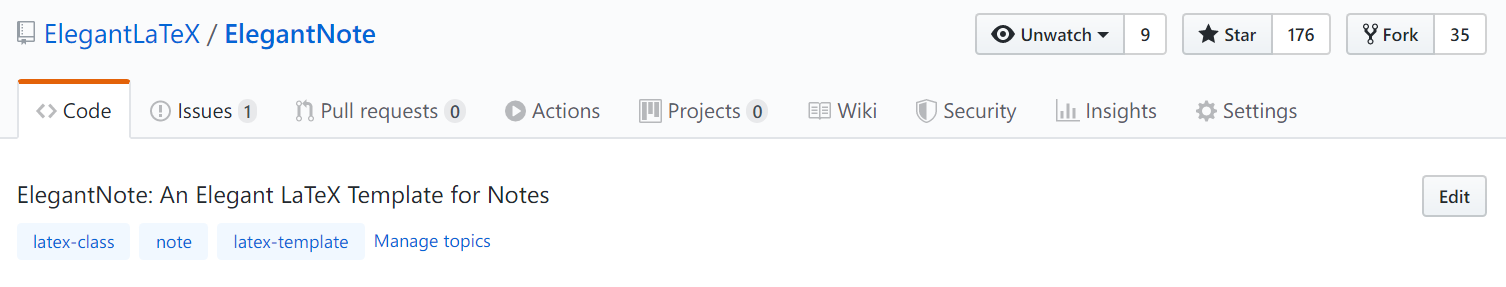
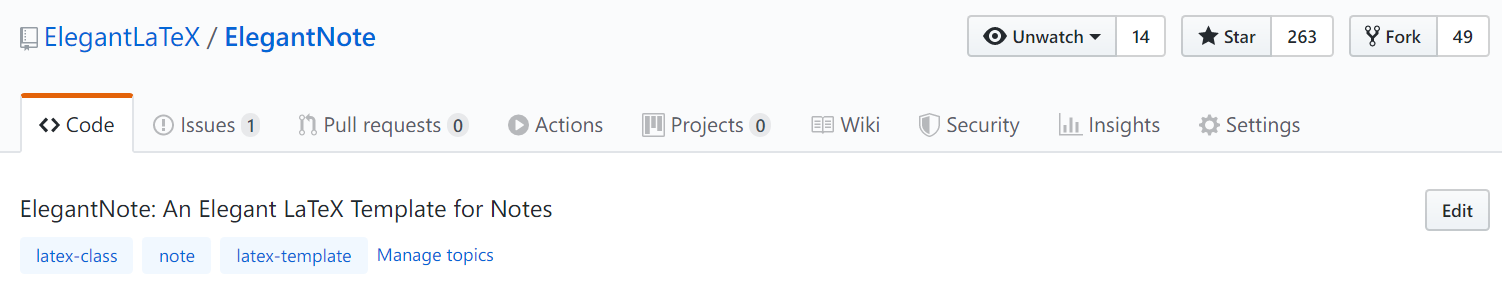
2.30 version

diff --git a/elegantnote-cn.tex b/elegantnote-cn.tex
@@ -1,11 +1,11 @@
 %!TEX program = xelatex
-\documentclass[cn,hazy,blue,14pt,screen,founder]{elegantnote}
+\documentclass[cn,hazy,blue,14pt,screen]{elegantnote}
 \title{ElegantNote：一个优美的 \LaTeX{} 笔记模板}
 
 \author{邓东升}
 \institute{Elegant\LaTeX{} Program}
 
-\version{2.20}
+\version{2.30}
 \date{\zhtoday}
 
 \usepackage{array}
@@ -21,19 +21,25 @@
 
 \section{ElegantNote 使用说明}
 
-新版 ElegantNote 是基于标准的 \LaTeX{} 文类 article 重新设计的，格式更加简化的笔记模板！本模板支持两种编译方式，\hologo{pdfLaTeX} 和 \hologo{XeLaTeX}\footnote{模板测试环境为 Win10 + \TeX{} Live 2019。}，英文模式下请使用 \hologo{pdfLaTeX} 进行编译，中文模式下推荐使用 \hologo{XeLaTeX}。
+新版 ElegantNote 是基于标准的 \LaTeX{} 文类 article 重新设计的，格式更加简化的笔记模板！本模板支持两种编译方式，\hologo{pdfLaTeX} 和 \hologo{XeLaTeX}，英文模式下请使用 \hologo{pdfLaTeX} 进行编译，中文模式下推荐使用 \hologo{XeLaTeX}。
 
 新模板有下面几个特性：
+
 \begin{itemize}
   \item 纸张模式：护眼模式（geye）和朦胧模式（hazy）；
-  \item 适配不同设备，包括 Pad（默认），Screen\footnote{\textcolor{red}{本次更新新增内容。}}（幻灯片），Kindle，PC（双页），通用（A4 纸张）；
+  \item 适配不同设备，包括 Pad（默认），Screen（幻灯片），Kindle，PC（双页），通用（A4 纸张）；
   \item 5 套颜色主题，分别是：\textcolor{eblue}{blue}（默认）、\textcolor{egreen}{green}、\textcolor{ecyan}{cyan}、 \textcolor{sakura}{sakura} 和 \textcolor{black}{black}；
   \item 语言支持：中文（默认），英文；
   \item 支持 \hologo{pdfLaTeX} 和 \hologo{XeLaTeX} 编译；
   \item 更加美观的图表标题格式，列表环境，数学字体等；
-  \item 全局字体大小支持：8pt, 9pt, 10pt, 11pt, 12pt, 14pt, 17pt, 和 20pt。
+  \item 全局字体大小支持：8pt, 9pt, 10pt, 11pt, 12pt, 14pt, 17pt, 和 20pt；
+  \item 支持 \lstinline{newtx} 以及 \lstinline{mtpro2} 数学字体设置； 
+  \item 中文字体支持方正字体或者自定义字体；
+  \item 英文模式通过 \lstinline{bibstyle} 选项（默认为 \lstinline{apalike}）支持参考文献格式修改；
+  \item 支持参考格式显示格式修改 \lstinline{cite} 可选为 \lstinline{authoryear}、\lstinline{numbers} （默认）和 \lstinline{super}。
 \end{itemize}
 
+本次更新：修复 \TeX{} Live 2020 更新之后因 \lstinline{gbt7714} 宏包更新用法导致模板出错的问题。
 
 \subsection{模板模式}
 
@@ -82,6 +88,51 @@
 \begin{note}
   如果想要正常的 A4 大小的 PDF，需要选择 \lstinline{device=normal}。
 \end{note}
+
+
+\subsection{数学字体选项}
+
+本模板定义了一个数学字体选项（\lstinline{math}），可选项有三个：
+\begin{enumerate}
+  \item \lstinline{math=cm}（默认），使用 \LaTeX{} 默认数学字体（推荐，无需声明）；
+  \item \lstinline{math=newtx}，使用 \lstinline{newtxmath} 设置数学字体（潜在问题比较多）。
+  \item \lstinline{math=mtpro2}，使用 \lstinline{mtpro2} 宏包设置数学字体，要求用户已经成功安装此宏包。
+\end{enumerate}
+
+
+\subsection{中文字体选项}
+模板提供中文字体选项 \lstinline{chinesefont}，可选项有
+\begin{enumerate}
+\item \lstinline{ctexfont}：默认选项，使用 \lstinline{ctex} 宏包根据系统自行选择字体，可能存在字体缺失的问题，更多内容参考 \lstinline{ctex} 宏包\href{https://ctan.org/pkg/ctex}{官方文档}\footnote{可以使用命令提示符，输入 \lstinline{texdoc ctex} 调出本地 \lstinline{ctex} 宏包文档}。
+\item \lstinline{founder}：方正字体选项，调用 \lstinline{ctex} 宏包并且使用 \lstinline{fontset=none} 选项，然后设置字体为方正四款免费字体，方正字体下载注意事项见后文。
+\item \lstinline{nofont}：调用 \lstinline{ctex} 宏包并且使用 \lstinline{fontset=none} 选项，不设定中文字体，用户可以自行设置中文字体，具体见后文。
+\end{enumerate}
+
+\noindent \textbf{注意：} 使用 \lstinline{founder} 选项或者 \lstinline{nofont} 时，必须使用 \hologo{XeLaTeX} 进行编译。
+
+\subsubsection{方正字体选项}
+由于使用 \lstinline{ctex} 宏包默认调用系统已有的字体，部分系统字体缺失严重，因此，用户希望能够使用其它字体，我们推荐使用方正字体。方正的{\songti 方正书宋}、{\heiti 方正黑体}、{\kaishu 方正楷体}、{\fangsong 方正仿宋}四款字体均可免费试用，且可用于商业用途。用户可以自行从\href{http://www.foundertype.com/}{方正字体官网}下载此四款字体，在下载的时候请\textbf{务必}注意选择 GBK 字符集，也可以使用 \href{https://www.latexstudio.net/}{\LaTeX{} 工作室}提供的\href{https://pan.baidu.com/s/1BgbQM7LoinY7m8yeP25Y7Q}{方正字体，提取码为：njy9} 进行安装。安装时，{\kaishu Win 10 用户请右键选择为全部用户安装，否则会找不到字体。}
+
+\begin{figure}[!htb]
+\centering
+\includegraphics[width=0.9\textwidth]{founder.png}
+\end{figure}
+
+\subsubsection{其他中文字体}
+如果你想完全自定义字体\footnote{这里仍然以方正字体为例。}，你可以选择 \lstinline{chinesefont=nofont}，然后在导言区设置
+\begin{lstlisting}
+\setCJKmainfont[BoldFont={FZHei-B01},ItalicFont={FZKai-Z03}]{FZShuSong-Z01}
+\setCJKsansfont[BoldFont={FZHei-B01},ItalicFont={FZHei-B01}]{FZHei-B01}
+\setCJKmonofont[BoldFont={FZHei-B01},ItalicFont={FZHei-B01}]{FZFangSong-Z02}
+\setCJKfamilyfont{zhsong}{FZShuSong-Z01}
+\setCJKfamilyfont{zhhei}{FZHei-B01}
+\setCJKfamilyfont{zhkai}{FZKai-Z03}
+\setCJKfamilyfont{zhfs}{FZFangSong-Z02}
+\newcommand*{\songti}{\CJKfamily{zhsong}}
+\newcommand*{\heiti}{\CJKfamily{zhhei}}
+\newcommand*{\kaishu}{\CJKfamily{zhkai}}
+\newcommand*{\fangsong}{\CJKfamily{zhfs}}
+\end{lstlisting}
 
 
 \subsection[颜色主题]{颜色主题\footnote{测试章节脚注。}}
@@ -188,7 +239,7 @@ Let $z$ be some element of $xH \cap yH$.  Then $z = xa$ for some $a \in H$, and 
 目前 ElegantLaTeX 共有 4 名协作人员，分别是
 \begin{itemize}
   \item 官方文档翻译: \href{https://github.com/peggy2006xzyz}{YPY};
-  \item Github 维基维护: \href{https://github.com/izinngo}{Ingo Zinngo}、\href{https://github.com/xiaohao890809}{追寻原风景};
+  \item GitHub 维基维护: \href{https://github.com/izinngo}{Ingo Zinngo}、\href{https://github.com/xiaohao890809}{追寻原风景};
   \item QQ 群管理员: \href{https://github.com/sikouhjw}{Sikouhjw}.
 \end{itemize}
 
@@ -197,9 +248,8 @@ Let $z$ be some element of $xH \cap yH$.  Then $z = xa$ for some $a \in H$, and 
 
 \section{致谢}
 
-截止到 2019 年 12 月 08 日，ElegantNote 2.40 版本发布，ElegantNote 模板在 Github 上的收藏数（star）达到了 176。在此特别感谢 China\TeX{} 以及 \href{http://www.latexstudio.net/}{\LaTeX{} 工作室}对于本系列模板的大力宣传与推广。
+截止到 2020 年 04 月 12 日，ElegantNote 2.30 版本发布，ElegantNote 模板在 GitHub 上的收藏数（star）达到了 263。在此特别感谢 China\TeX{} 以及 \href{http://www.latexstudio.net/}{\LaTeX{} 工作室}对于本系列模板的大力宣传与推广。如果你喜欢我们的模板，你可以在 GitHub 上收藏（Star）我们的模板。
 
-如果你喜欢我们的模板，你可以在 Github 上收藏（Star）我们的模板。
 \begin{figure}[htbp]
   \centering
   \includegraphics[width=\textwidth]{star.png}
@@ -219,25 +269,41 @@ Let $z$ be some element of $xH \cap yH$.  Then $z = xa$ for some $a \in H$, and 
 \textbf{赞赏费用的使用解释权归 Elegant\LaTeX{} 所有，并且不接受监督，请自愿理性打赏}。10 元以上的赞赏，我们将列入捐赠榜，并且发放捐赠纪念证（全部），谢谢各位金主！
 
 \begin{table}[htbp]
-  \small
+  \scriptsize
   \centering
   \caption{Elegant\LaTeX{} 系列模板捐赠榜}
     \begin{tabular}{*{8}{>{\scriptsize}c}}
     \toprule
     \textbf{捐赠者} & \textbf{金额} & \textbf{时间} & \textbf{渠道} & \textbf{捐赠者} & \textbf{金额} & \textbf{时间} & \textbf{渠道} \\
     \midrule
-    Lerh  & 10 RMB & 2019/5/15 & 微信    & 刘志阔   & 99.99 RMB & 2019/10/15 & 支付宝 \\
-    越过地平线 & 10 RMB & 2019/5/15 & 微信    & *涛    & 16 RMB & 2019/10/17 & 微信 \\
-    银桑    & 20 RMB & 2019/5/27 & 微信    & 赤霓    & 12 RMB & 2019/10/17 & 支付宝 \\
-    *空    & 10 RMB & 2019/5/30 & 微信    & 追寻原风景 & 10 RMB & 2019/10/28 & 微信 \\
-    latexstudio.net & 666 RMB & 2019/6/5 & 支付宝   & 郭德良   & 88 RMB & 2019/11/3 & 微信 \\
-    Cassis & 11 RMB & 2019/6/30 & 微信    & 自强不息  & 20 RMB & 2019/11/4 & 支付宝 \\
-    *君    & 10 RMB & 2019/7/23 & 微信    & 读书之虫  & 20 RMB & 2019/11/18 & 微信 \\
-    P*u   & 50 RMB & 2019/7/30 & 微信    & *等    & 10 RMB & 2019/11/18 & 微信 \\
-    *萌    & 19 RMB & 2019/8/28 & 微信    & *哲    & 20 RMB & 2019/11/18 & 微信 \\
-    曲豆豆   & 10 RMB & 2019/8/28 & 微信    & 佚名    & 10 RMB & 2019/11/24 & 微信 \\
-    李博    & 100 RMB & 2019/10/6 & 微信    & Jiye Qian & 66 RMB & 2019/12/4 & 微信 \\
-    Njustsll & 10 RMB & 2019/10/11 & 微信    & 阳仔    & 20 RMB & 2019/12/5 & 微信 \\
+    Lerh  & 10 RMB & 2019/05/15 & 微信    & 越过地平线 & 10 RMB & 2019/05/15 & 微信 \\
+    银桑    & 20 RMB & 2019/05/27 & 微信    & *空    & 10 RMB & 2019/05/30 & 微信 \\
+    latexstudio.net & 666 RMB & 2019/06/05 & 支付宝   & A*n   & 40 RMB & 2019/06/15 & 微信 \\
+    * 夏   & 22 RMB & 2019/06/15 & 微信    & * 倩   & 21 RMB  & 2019/06/15 & 微信 \\
+    Cassis & 11 RMB & 2019/06/30 & 微信    & *君    & 10 RMB & 2019/07/23 & 微信 \\
+    P*u   & 50 RMB & 2019/07/30 & 微信    & *萌    & 19 RMB & 2019/08/28 & 微信 \\
+    曲豆豆   & 10 RMB & 2019/08/28 & 微信    & 李博    & 100 RMB & 2019/10/06 & 微信 \\
+    Njustsll & 10 RMB & 2019/10/11 & 微信    & 刘志阔   & 99.99 RMB & 2019/10/15 & 支付宝 \\
+    * 韬   & 16 RMB & 2019/10/17 & 微信    & 赤霓    & 12 RMB & 2019/10/17 & 支付宝 \\
+    追寻原风景 & 10 RMB & 2019/10/28 & 微信    & 郭德良   & 88 RMB & 2019/11/03 & 微信 \\
+    自强不息  & 20 RMB & 2019/11/04 & 支付宝   & 读书之虫  & 20 RMB & 2019/11/18 & 微信 \\
+    *等    & 10 RMB & 2019/11/18 & 微信    & *哲    & 20 RMB & 2019/11/18 & 微信 \\
+    佚名    & 10 RMB & 2019/11/24 & 微信    & Jiye Qian & 66 RMB & 2019/12/04 & 微信 \\
+    * 阳   & 20 RMB & 2019/12/05 & 微信    & Catcher & 11 RMB & 2019/12/08 & 支付宝 \\
+    希尔波特门徒 & 10 RMB & 2019/12/09 & 支付宝   & * 伟   & 10 RMB & 2019/12/09 & 微信 \\
+    Simon & 20 RMB & 2019/12/11 & 支付宝   & 流殇丶浅忆 & 66.60 RMB & 2019/12/18 & 支付宝 \\
+    羽     & 10 RMB & 2019/12/20 & 支付宝   & * 琛   & 15 RMB & 2019/12/20 & 微信 \\
+    随风    & 20 RMB & 2019/12/27 & 支付宝   & Ws    & 23.30 RMB & 2019/12/28 & 微信 \\
+    初八    & 100 RMB  & 2020/01/02 & 支付宝   & p*e   & 20 RMB & 2020/01/03 & 微信 \\
+    Shunmx & 100 RMB & 2020/01/03 & 微信    & hj    & 10 RMB & 2020/01/03 & 微信 \\
+    F*5   & 10 RMB & 2020/01/03 & 微信    & S*m   & 20.20 RMB & 2020/01/03 & 微信 \\
+    二代青雉  & 13 RMB & 2020/01/14 & 支付宝   & *?    & 66 RMB & 2020/01/15 & 微信 \\
+    Mr. Xiong & 20 RMB & 2020/01/17 & 微信    & *博    & 15 RMB & 2020/01/18 & 微信 \\
+    * 者  & 10 RMB & 2020/02/02 & 微信    & Jackie  &  88.80 RMB  &  2020/02/09 & 微信 \\
+    Henry\_Sun、 & 50 RMB & 2020/02/14 & 支付宝 & * 桥  & 50 RMB & 2020/02/21 & 微信 \\
+    昀琏 & 10 RMB & 2020/03/02 & 支付宝 & S*y  &  10 RMB  &  2020/03/15 & 微信 \\
+    * 哥  & 66.66 RMB & 2020/03/17 & 微信    &   K*e & 30 RMB & 2020/03/30 & 微信\\
+    * 阳  &  20 RMB  &  2020/04/02 & 微信 & 士*n  & 30 RMB & 2020/04/11 & 微信 \\
     \bottomrule
     \end{tabular}%
   \label{tab:donation}%
@@ -250,37 +316,14 @@ Let $z$ be some element of $xH \cap yH$.  Then $z = xa$ for some $a \in H$, and 
   \item \textit{如何删除版本信息？}\\
     导言区不写 \lstinline|\version{x.xx}| 即可。
   \item \textit{如何删除日期？}\\
-    需要注意的是，与版本 \lstinline{\version} 不同的是，导言区不写或注释 \lstinline{\date} 的话，仍然会打印出当日日期，原因是 \lstinline{\date} 有默认参数。如果不需要日期的话，日期可以留空即可，也即 \lstinline|\date{}|。
+    与版本 \lstinline{\version} 不同的是，导言区不写或注释 \lstinline{\date} 的话，仍然会打印出当日日期，原因是 \lstinline{\date} 有默认参数。如果不需要日期的话，日期可以留空即可，也即 \lstinline|\date{}|。
   \item \textit{如何获得中文日期？}\\
-    为了获得中文日期，必须在中文模式下\footnote{英文模式下，由于未加载中文宏包，无法输入中文。}，使用 \lstinline|\date{\zhdate{2019/12/09}}|，如果需要当天的汉化日期，可以使用 \lstinline|\date{\zhtoday}|，这两个命令都来源于 \href{https://ctan.org/pkg/zhnumber}{\lstinline{zhnumber}} 宏包。
+    为了获得中文日期，必须在中文模式下，使用 \lstinline|\date{\zhdate{2019/12/09}}|，如果需要当天的汉化日期，可以使用 \lstinline|\date{\zhtoday}|，这两个命令都来源于 \href{https://ctan.org/pkg/zhnumber}{\lstinline{zhnumber}} 宏包。
   \item \textit{如何添加多个作者？}\\
     在 \lstinline{\author} 里面使用 \lstinline{\and}，作者单位可以用 \lstinline{\\} 换行。
     \begin{lstlisting}
       \author{author 1\\ org. 1 \and author 2 \\ org. 2 }
     \end{lstlisting}
 \end{enumerate}
-
-
-\section{示例}
-
-\begin{lstlisting}
-\documentclass[cn,hazy,blue,screen,14pt]{elegantnote}
-
-\title{ElegantNote Example}
-\author{ddswhu}
-\institute{Elegant\LaTeX{} Program}
-% \version{1.00}
-\date{}
-
-\begin{document}
-
-\maketitle
-
-\section{Introduction}
-
-The content of Introduction.
-
-\end{document}
-\end{lstlisting}
 
 \end{document}

diff --git a/elegantnote-en.tex b/elegantnote-en.tex
@@ -5,7 +5,7 @@
 \author{Dongsheng Deng}
 \institute{Elegant\LaTeX{} Program}
 
-\version{2.20}
+\version{2.30}
 \date{\today}
 
 \begin{document}
@@ -25,9 +25,13 @@ The new template has the following features:
   \item languages support: Chinese (default), English;
   \item support \hologo{pdfLaTeX} and \hologo{XeLaTeX};
   \item prettier captions, list environments, and unified fonts;
-  \item custmized global font size: 8pt, 9pt, 10pt, 11pt, 12pt, 14pt, 17pt and 20pt.
+  \item custmized global font size: 8pt, 9pt, 10pt, 11pt, 12pt, 14pt, 17pt and 20pt;
+  \item support for math font options for \lstinline{newtx} and \lstinline{mtpro2};
+  \item with the option of \lstinline{bibstyle} (default: apalike) for changing style of bibliography;
+  \item change the citation style with \lstinline{cite} option: \lstinline{authoryear}, \lstinline{numbers} and \lstinline{super}.
 \end{itemize}
 
+This update is to resolve \TeX{} Live 2020 compilation errors caused by \lstinline{gbt7714} compatibility issues.
 
 \subsection{Optional Modes}
 
@@ -78,6 +82,17 @@ You can also select the device by using a direct assignment method, such as:
 \begin{note}
 To get a normal A4paper size PDF, please select \lstinline{device=normal}.
 \end{note}
+
+\subsection{Math Fonts}
+
+This template defines a new option (\lstinline{math}), with three options:
+
+\begin{enumerate}
+  \item \lstinline{math=cm} (default), use \LaTeX{} default math font (recommended).
+  \item \lstinline{math=newtx}, use \lstinline{newtxmath} math font (may bring about bugs).
+  \item \lstinline{math=mtpro2}, use \lstinline{mtpro2} package to set math font.
+\end{enumerate}
+
 
 \subsection[Color Themes]{Color Themes\footnote{Test for chapter footnote.}}
 
@@ -205,10 +220,10 @@ So far, Elegant\LaTeX{} has four support members:
 Thank them all!!!
 
 \section{Acknowledgement}
-The number of stars on Github for ElegantPaper reached 176 on Dec. 8, 2019 at the release of ElegantNote v2.40.
+The number of stars on GitHub for ElegantPaper reached 176 on April 12, 2020 at the release of ElegantNote v2.20.
 Thank China\TeX{} and \href{http://www.latexstudio.net/}{\LaTeX{} studio} for their promotion. 
 
-If you like our templates, star on Github.
+If you like our templates, star on GitHub.
 \begin{figure}[!ht]
 	\centering
 	\includegraphics[width=\textwidth]{star.png}
@@ -226,24 +241,40 @@ To express your love for our templates and/or our developers, please do not hesi
 
 \begin{table}[htbp]
   \centering
-  \small
+  \scriptsize
   \caption{Donation List}
     \begin{tabular}{cccccccc}
     \toprule
     \textbf{Tipper} & \textbf{Amount} & \textbf{Date} & \textbf{Channel} & \textbf{Tipper} & \textbf{Amount} & \textbf{Date} & \textbf{Channel} \\
     \midrule
-    Lerh  & 10 RMB & 2019/5/15 & Wechat & LIU ZhiKuo & 100 RMB & 2019/10/15 & Alipay \\
-    YueGuoDiPingXian & 10 RMB & 2019/5/15 & Wechat & * Tao & 16 RMB & 2019/10/17 & Wechat \\
-    YinSang & 20 RMB & 2019/5/27 & Wechat & ChiHong & 12 RMB & 2019/10/17 & Alipay \\
-    * Kong & 10 RMB & 2019/5/30 & Wechat & YuanFengJing & 10 RMB & 2019/10/28 & Wechat \\
-    latexstudio.net & 666 RMB & 2019/6/05 & Alipay & GUO DeLiang & 88 RMB & 2019/11/03 & Wechat \\
-    Cassis & 11 RMB & 2019/6/30 & Wechat & ZiQiangBuXi & 20 RMB & 2019/11/03 & Alipay \\
-    * Jun & 10 RMB & 2019/7/23 & Wechat & DuShuZhiChong & 20 RMB & 2019/11/18 & Wechat \\
-    P*u   & 50 RMB & 2019/7/30 & Wechat & * Deng & 10 RMB & 2019/11/18 & Wechat \\
-    * Meng & 19 RMB & 2019/8/28 & Wechat & * Zhe & 20 RMB & 2019/11/18 & Wechat \\
-    QuDouDou & 10 RMB & 2019/8/28 & Wechat & anonymous & 10 RMB & 2019/11/24 & Wechat \\
-    LI Bo & 100 RMB & 2019/10/06 & Wechat & Jiye Qian & 66 RMB & 2019/12/04 & Wechat \\
-    Njustsll & 10 RMB & 2019/10/11 & Wechat & Boy Yang & 20 RMB & 2019/12/05 & Wechat \\
+    Lerh  & 10 RMB & 2019/05/15 & Wechat    & yueguodipingxian & 10 RMB & 2019/05/15 & Wechat \\
+	  yinsang    & 20 RMB & 2019/05/27 & Wechat    & *kong    & 10 RMB & 2019/05/30 & Wechat \\
+	  latexstudio.net & 666 RMB & 2019/06/05 & Alipay   & A*n   & 40 RMB & 2019/06/15 & Wechat \\
+	  * xia   & 22 RMB & 2019/06/15 & Wechat    & * qian  & 21 RMB  & 2019/06/15 & Wechat \\
+	  Cassis & 11 RMB & 2019/06/30 & Wechat    & * jun    & 10 RMB & 2019/07/23 & Wechat \\
+	  P*u   & 50 RMB & 2019/07/30 & Wechat    & * meng    & 19 RMB & 2019/08/28 & Wechat \\
+	  Qu Doudou   & 10 RMB & 2019/08/28 & Wechat    & Li Bo    & 100 RMB & 2019/10/06 & Wechat \\
+	  Njustsll & 10 RMB & 2019/10/11 & Wechat    & Liu Zhikuo   & 99.99 RMB & 2019/10/15 & Alipay \\
+	  * tao   & 16 RMB & 2019/10/17 & Wechat    & Chini    & 12 RMB & 2019/10/17 & Alipay \\
+	  yuanfengjing & 10 RMB & 2019/10/28 & Wechat    & Guo Deliang   & 88 RMB & 2019/11/03 & Wechat \\
+	  ziqiangbuxi  & 20 RMB & 2019/11/04 & Alipay   & dushuzhichong  & 20 RMB & 2019/11/18 & Wechat \\
+	  * deng    & 10 RMB & 2019/11/18 & Wechat    & * zhe   & 20 RMB & 2019/11/18 & Wechat \\
+	  anonymous    & 10 RMB & 2019/11/24 & Wechat    & Jiye Qian & 66 RMB & 2019/12/04 & Wechat \\
+	  * yang   & 20 RMB & 2019/12/05 & Wechat    & Catcher & 11 RMB & 2019/12/08 & Alipay \\
+	  xierbotementu & 10 RMB & 2019/12/09 & Alipay   & * wei   & 10 RMB & 2019/12/09 & Wechat \\
+	  Simon & 20 RMB & 2019/12/11 & Alipay   & liushangqianyi & 66.60 RMB & 2019/12/18 & Alipay \\
+	  yu     & 10 RMB & 2019/12/20 & Alipay   & *chen   & 15 RMB & 2019/12/20 & Wechat \\
+	  suifeng   & 20 RMB & 2019/12/27 & Alipay   & Ws    & 23.30 RMB & 2019/12/28 & Wechat \\
+	  chuba    & 100 RMB  & 2020/01/02 & Alipay   & p*e   & 20 RMB & 2020/01/03 & Wechat \\
+	  Shunmx & 100 RMB & 2020/01/03 & Wechat    & hj    & 10 RMB & 2020/01/03 & Wechat \\
+	  F*5   & 10 RMB & 2020/01/03 & Wechat    & S*m   & 20.20 RMB & 2020/01/03 & Wechat \\
+	  erdaiqingzhi  & 13 RMB & 2020/01/14 & Alipay   & *?    & 66 RMB & 2020/01/15 & Wechat \\
+	  Mr. Xiong & 20 RMB & 2020/01/17 & Wechat    & *bo    & 15 RMB & 2020/01/18 & Wechat \\
+	  *Zhe    & 10 RMB & 2020/02/02 & Wechat    &  Jackie &  88.80 RMB  &  2020/02/09 & Wechat \\
+	  Henry\_Sun & 50 RMB & 2020/02/14 & Alipay & * Qiao  & 50 RMB & 2020/02/21 & Wechat \\
+	  YunLian & 10 RMB & 2020/03/02 & Alipay & S*y  &  10 RMB  &  2020/03/15 & Wechat \\
+	  * Ge  & 66.66 RMB & 2020/03/17 & Wechat    &   K*e & 30 RMB & 2020/03/30 & Wechat\\
+	  * Yang  &  20 RMB  &  2020/04/02 & Wechat & Shi*n  & 30 RMB & 2020/04/11 & Wechat \\
 \bottomrule
 \end{tabular}%
   \label{tab:donation}%
@@ -264,26 +295,5 @@ To express your love for our templates and/or our developers, please do not hesi
     \end{lstlisting}
 \end{enumerate}
 
-\section{A Minimal Example}
-
-\begin{lstlisting}
-\documentclass[en,hazy,blue,screen,14pt]{elegantnote}
-
-\title{ElegantNote Example}
-\author{ddswhu}
-\institute{Elegant\LaTeX{} Program}
-% \version{1.00}
-\date{}
-
-\begin{document}
-
-\maketitle
-
-\section{Introduction}
-
-The content of Introduction.
-
-\end{document}
-\end{lstlisting}
 
 \end{document}
